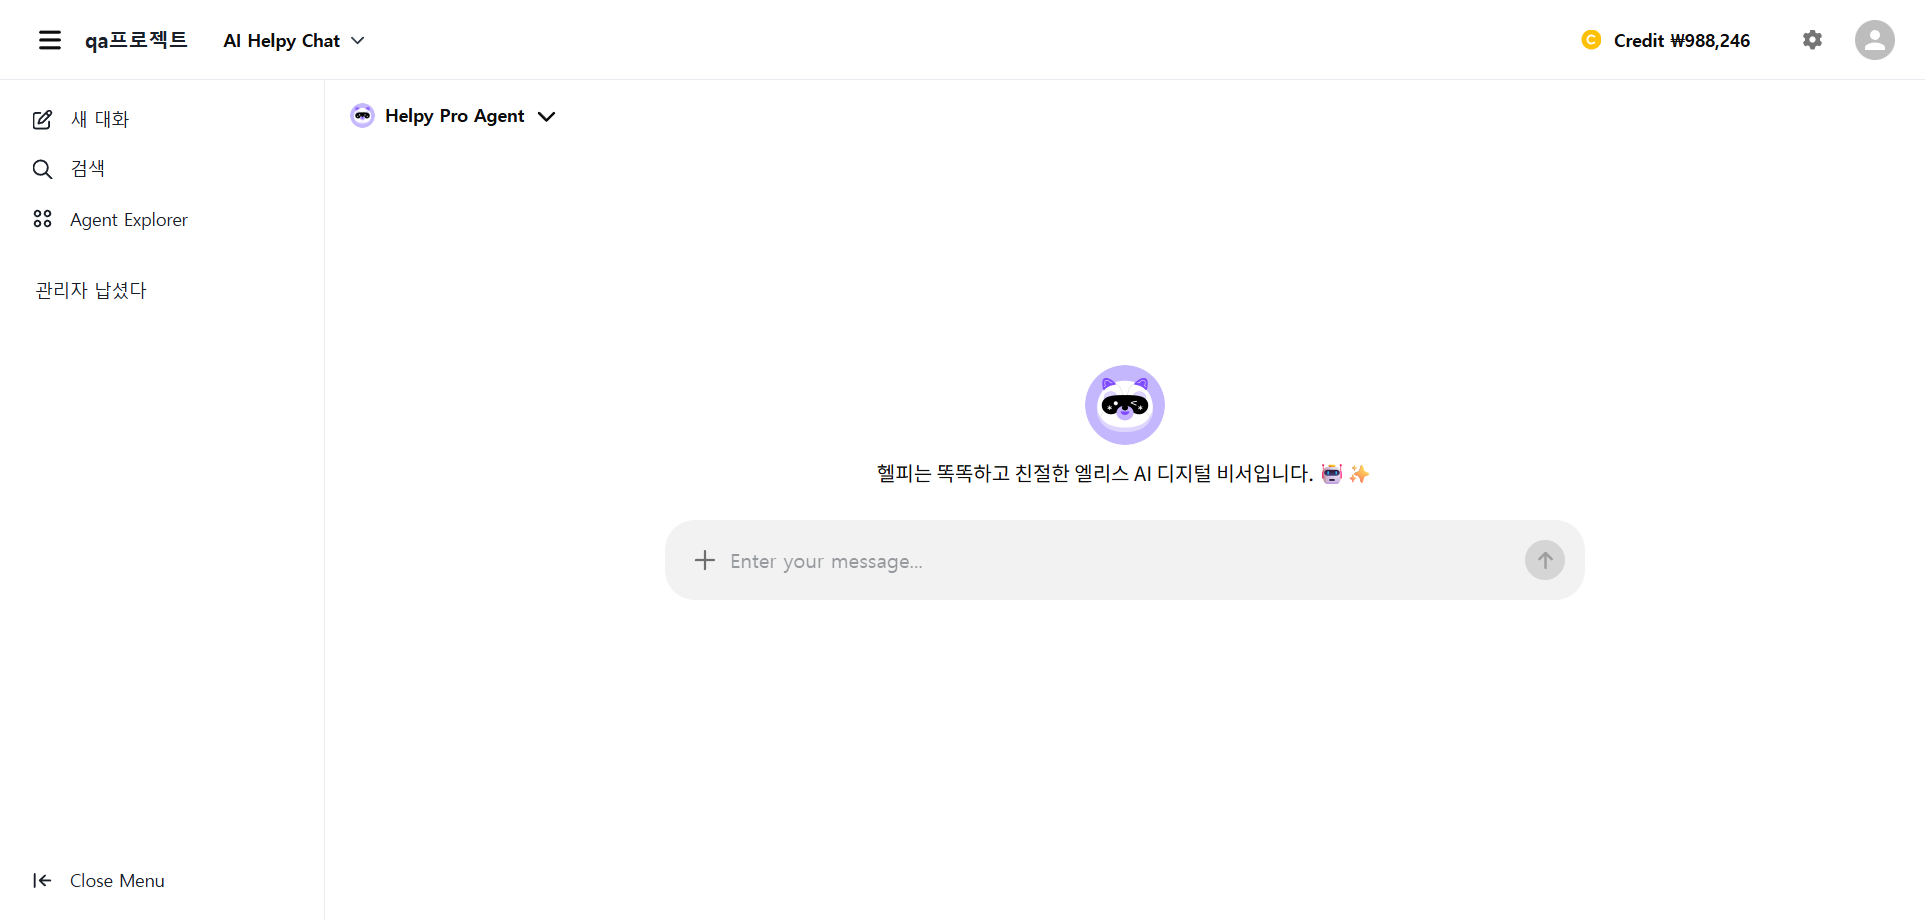
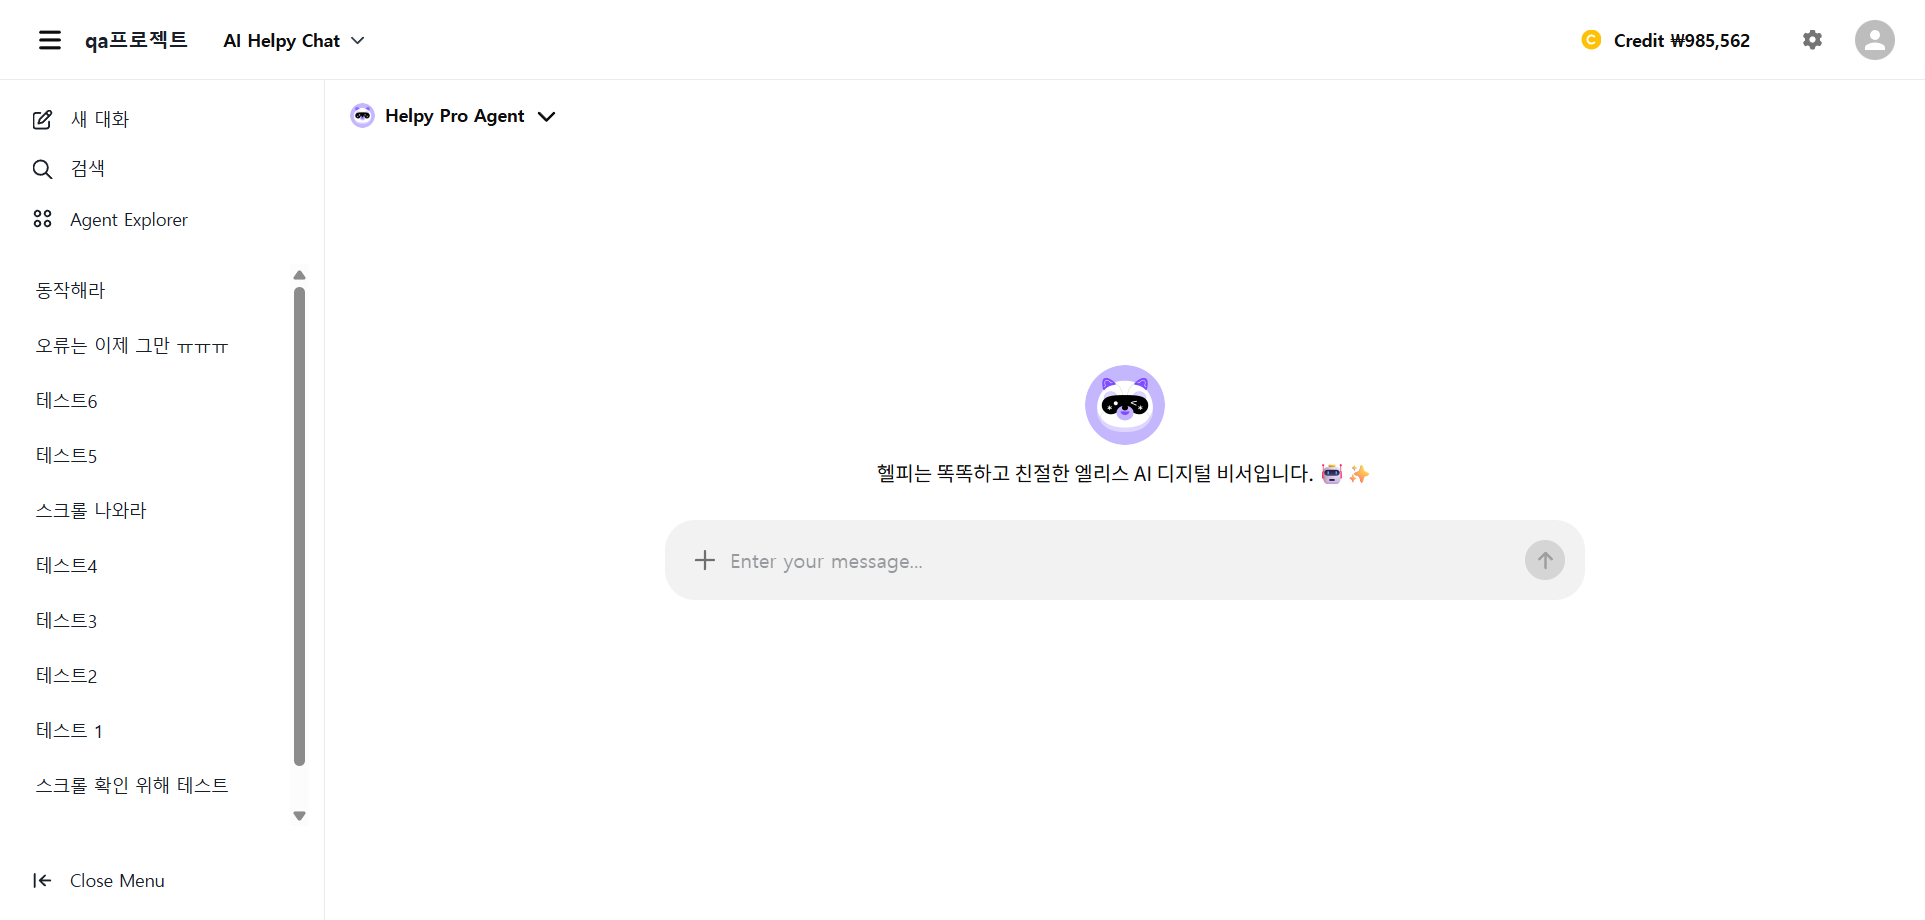
오류발생
그대로 저장

diff --git a/tests/chat_history/test_chat_history.py b/tests/chat_history/test_chat_history.py
@@ -83,7 +83,46 @@ def test_chat_history_display(login, driver):
 #     if not has_scrollbar:
 #         page.take_screenshot("CHAT-HIS-002_error.png")
 
-# # ----------------------- CHAT-HIS-003 -----------------------
+@pytest.mark.ui
+@pytest.mark.medium
+def test_chat_history_scroll(login, driver):
+    driver = login("team4@elice.com", "team4elice!@")  # 로그인 후 세션 유지
+
+    # iframe이 로딩될 때까지 기다리고 프레임 전환
+    iframe = WebDriverWait(driver, 10).until(
+        EC.frame_to_be_available_and_switch_to_it((By.CSS_SELECTOR, "iframe#ch-plugin-script-iframe"))
+    )
+
+    # ✅ 불필요한 채팅 목록 대기 제거
+    # 기존 코드:
+    # CHAT_HISTORY = (By.CSS_SELECTOR, "a[data-index]")
+    # try:
+    #     WebDriverWait(driver, 10).until(
+    #         EC.presence_of_all_elements_located(CHAT_HISTORY)
+    #     )
+    #     print("채팅 목록이 화면에 존재하여 DOM이 로딩 완료됨")
+    # except TimeoutException:
+    #     print("채팅 목록이 존재하지 않음 (정상 상태일 수 있음)")
+
+    # 스크롤 영역 확인
+    try:
+        chat_area = WebDriverWait(driver, 5).until(
+            EC.presence_of_element_located((By.CSS_SELECTOR, '[data-testid="virtuoso-scroller"]'))
+        )
+        has_scrollbar = driver.execute_script(
+            "return arguments[0].scrollHeight > arguments[0].clientHeight;", chat_area
+        )
+        if has_scrollbar:
+            print("스크롤 영역 존재: 스크롤 가능")
+        else:
+            print("스크롤 영역 존재하지만, 채팅이 충분하지 않아 스크롤 필요 없음")
+    except TimeoutException:
+        print("스크롤 영역 자체가 존재하지 않음")
+
+    # 기본 프레임 돌아오기
+    driver.switch_to.default_content()
+
+# ----------------------- CHAT-HIS-003 -----------------------
 # @pytest.mark.ui
 # @pytest.mark.medium
 # def test_chat_history_sort_order(page):
@@ -96,6 +135,43 @@ def test_chat_history_display(login, driver):
 #     if texts != sorted(texts, reverse=True):
 #         page.take_screenshot("CHAT-HIS-003_error.png")
 #         assert False, "채팅 히스토리가 내림차순으로 정렬되어 있지 않습니다."
+@pytest.mark.ui
+@pytest.mark.medium
+def test_chat_history_sort_order(login, driver):
+    driver = login("team4@elice.com", "team4elice!@")  # 로그인 후 세션 유지
+
+    # ✅ 1. iframe이 로딩될 때까지 기다리고 전환 (TC2와 동일)
+    iframe = WebDriverWait(driver, 10).until(
+        EC.frame_to_be_available_and_switch_to_it((By.CSS_SELECTOR, "iframe#ch-plugin-script-iframe"))
+    )
+
+    # ✅ 2. 채팅 영역 렌더링 확인 (스크롤 영역 존재 확인)
+    try:
+        chat_area = WebDriverWait(driver, 10).until(
+            EC.presence_of_element_located((By.CSS_SELECTOR, '[data-testid="virtuoso-scroller"]'))
+        )
+        print("채팅 영역 로딩 완료")
+    except TimeoutException:
+        print("채팅 영역 로딩 실패")
+        driver.switch_to.default_content()
+        assert False, "채팅 영역이 존재하지 않아 정렬 확인 불가"
+
+    # ✅ 3. 채팅 목록 가져오기 (DOM 존재 여부 확인)
+    CHAT_ITEMS = chat_area.find_elements(By.CSS_SELECTOR, "a[data-index]")
+    if not CHAT_ITEMS:
+        driver.switch_to.default_content()
+        driver.save_screenshot("CHAT-HIS-003_no_items.png")
+        assert False, "채팅 아이템이 존재하지 않아 정렬 확인 불가"
+
+    # ✅ 4. 텍스트 리스트로 변환 후 내림차순 비교
+    texts = [item.text for item in CHAT_ITEMS]
+    if texts != sorted(texts, reverse=True):
+        driver.save_screenshot("CHAT-HIS-003_error.png")
+        driver.switch_to.default_content()
+        assert False, "채팅 히스토리가 내림차순으로 정렬되어 있지 않습니다."
+
+    # ✅ 5. 테스트 종료 후 기본 프레임으로 복귀
+    driver.switch_to.default_content()
 
 # # ----------------------- CHAT-HIS-004 -----------------------
 # @pytest.mark.ui
@@ -242,4 +318,3 @@ def test_chat_history_display(login, driver):
 #     # 삭제가 반영되었는지 체크
 #     new_first_text = items[0].get_text()
 #     assert new_first_text != first_item_text, f"삭제 실패: '{first_item_text}'가 여전히 목록에 있음"
-
